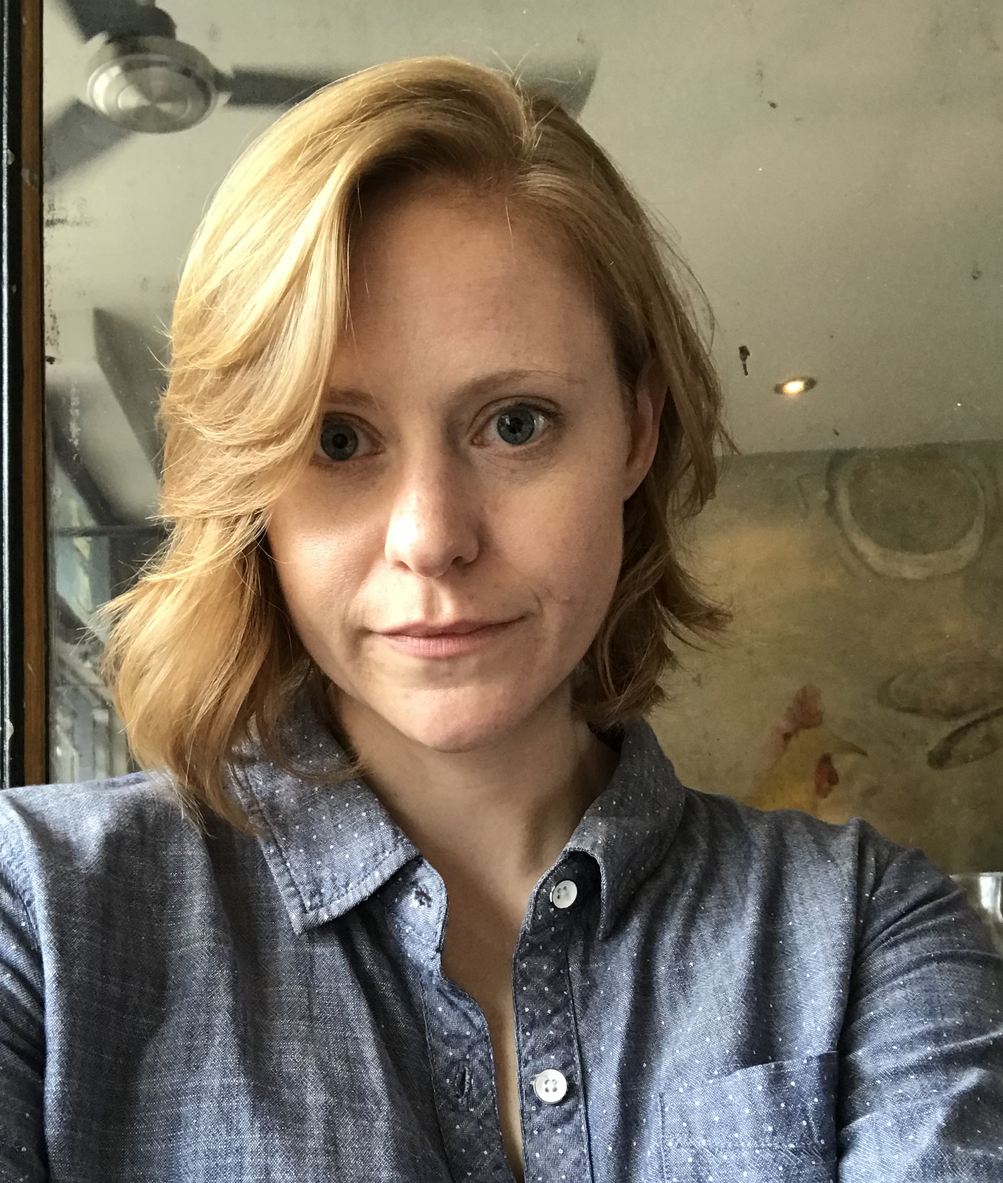
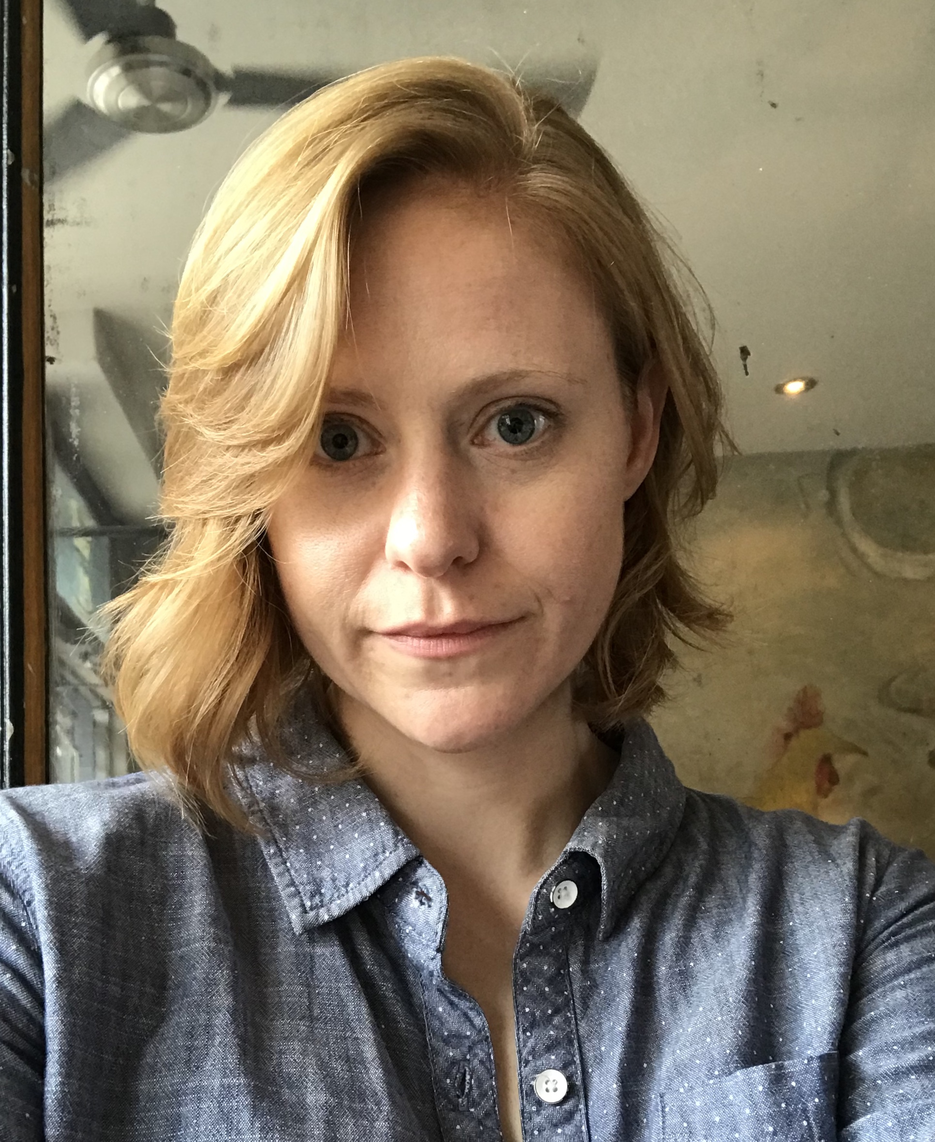
Added Rose (Garrett)'s photo

diff --git a/author/rose-schmidt/index.html b/author/rose-schmidt/index.html
@@ -277,8 +277,8 @@
   <meta property="og:site_name" content="Health Data Working Group" />
   <meta property="og:url" content="/author/rose-schmidt/" />
   <meta property="og:title" content="Rose Schmidt | Health Data Working Group" />
-  <meta property="og:description" content="My research group description." /><meta property="og:image" content="/author/rose-schmidt/avatar_hude714e71962a9cb6b7dbd6559fd05ebf_1451759_270x270_fill_q75_lanczos_center.jpg" />
-    <meta property="twitter:image" content="/author/rose-schmidt/avatar_hude714e71962a9cb6b7dbd6559fd05ebf_1451759_270x270_fill_q75_lanczos_center.jpg" /><meta property="og:locale" content="en-us" />
+  <meta property="og:description" content="My research group description." /><meta property="og:image" content="/author/rose-schmidt/avatar_hue723a5263c2e88c571775570182dd7cc_1292130_270x270_fill_q75_lanczos_center.jpg" />
+    <meta property="twitter:image" content="/author/rose-schmidt/avatar_hue723a5263c2e88c571775570182dd7cc_1292130_270x270_fill_q75_lanczos_center.jpg" /><meta property="og:locale" content="en-us" />
   
     
   
@@ -555,7 +555,7 @@
 
       
       
-      <img class="avatar avatar-circle" src="/author/rose-schmidt/avatar_hude714e71962a9cb6b7dbd6559fd05ebf_1451759_270x270_fill_q75_lanczos_center.jpg" alt="Rose Schmidt">
+      <img class="avatar avatar-circle" src="/author/rose-schmidt/avatar_hue723a5263c2e88c571775570182dd7cc_1292130_270x270_fill_q75_lanczos_center.jpg" alt="Rose Schmidt">
       
 
       <div class="portrait-title">

diff --git a/author/rose-garrett/index.html b/author/rose-garrett/index.html
@@ -277,8 +277,8 @@
   <meta property="og:site_name" content="Health Data Working Group" />
   <meta property="og:url" content="/author/rose-garrett/" />
   <meta property="og:title" content="Rose Garrett | Health Data Working Group" />
-  <meta property="og:description" content="My research group description." /><meta property="og:image" content="/author/rose-garrett/avatar_hu50bc422a062b9f033cdcef3ebda045ae_42112_270x270_fill_q75_lanczos_center.jpg" />
-    <meta property="twitter:image" content="/author/rose-garrett/avatar_hu50bc422a062b9f033cdcef3ebda045ae_42112_270x270_fill_q75_lanczos_center.jpg" /><meta property="og:locale" content="en-us" />
+  <meta property="og:description" content="My research group description." /><meta property="og:image" content="/author/rose-garrett/avatar_hu81085c61611bb7fd1ade120db818efd6_38243_270x270_fill_q75_lanczos_center.jpg" />
+    <meta property="twitter:image" content="/author/rose-garrett/avatar_hu81085c61611bb7fd1ade120db818efd6_38243_270x270_fill_q75_lanczos_center.jpg" /><meta property="og:locale" content="en-us" />
   
     
   
@@ -555,7 +555,7 @@
 
       
       
-      <img class="avatar avatar-circle" src="/author/rose-garrett/avatar_hu50bc422a062b9f033cdcef3ebda045ae_42112_270x270_fill_q75_lanczos_center.jpg" alt="Rose Garrett">
+      <img class="avatar avatar-circle" src="/author/rose-garrett/avatar_hu81085c61611bb7fd1ade120db818efd6_38243_270x270_fill_q75_lanczos_center.jpg" alt="Rose Garrett">
       
 
       <div class="portrait-title">

diff --git a/people/index.html b/people/index.html
@@ -1103,7 +1103,7 @@
     
     
       
-      <a href="/author/rose-garrett/"><img class="avatar avatar-circle" src="/author/rose-garrett/avatar_hu50bc422a062b9f033cdcef3ebda045ae_42112_270x270_fill_q75_lanczos_center.jpg" alt="Avatar"></a>
+      <a href="/author/rose-garrett/"><img class="avatar avatar-circle" src="/author/rose-garrett/avatar_hu81085c61611bb7fd1ade120db818efd6_38243_270x270_fill_q75_lanczos_center.jpg" alt="Avatar"></a>
     
 
     <div class="portrait-title">
@@ -1183,7 +1183,7 @@
     
     
       
-      <a href="/author/rose-schmidt/"><img class="avatar avatar-circle" src="/author/rose-schmidt/avatar_hude714e71962a9cb6b7dbd6559fd05ebf_1451759_270x270_fill_q75_lanczos_center.jpg" alt="Avatar"></a>
+      <a href="/author/rose-schmidt/"><img class="avatar avatar-circle" src="/author/rose-schmidt/avatar_hue723a5263c2e88c571775570182dd7cc_1292130_270x270_fill_q75_lanczos_center.jpg" alt="Avatar"></a>
     
 
     <div class="portrait-title">
